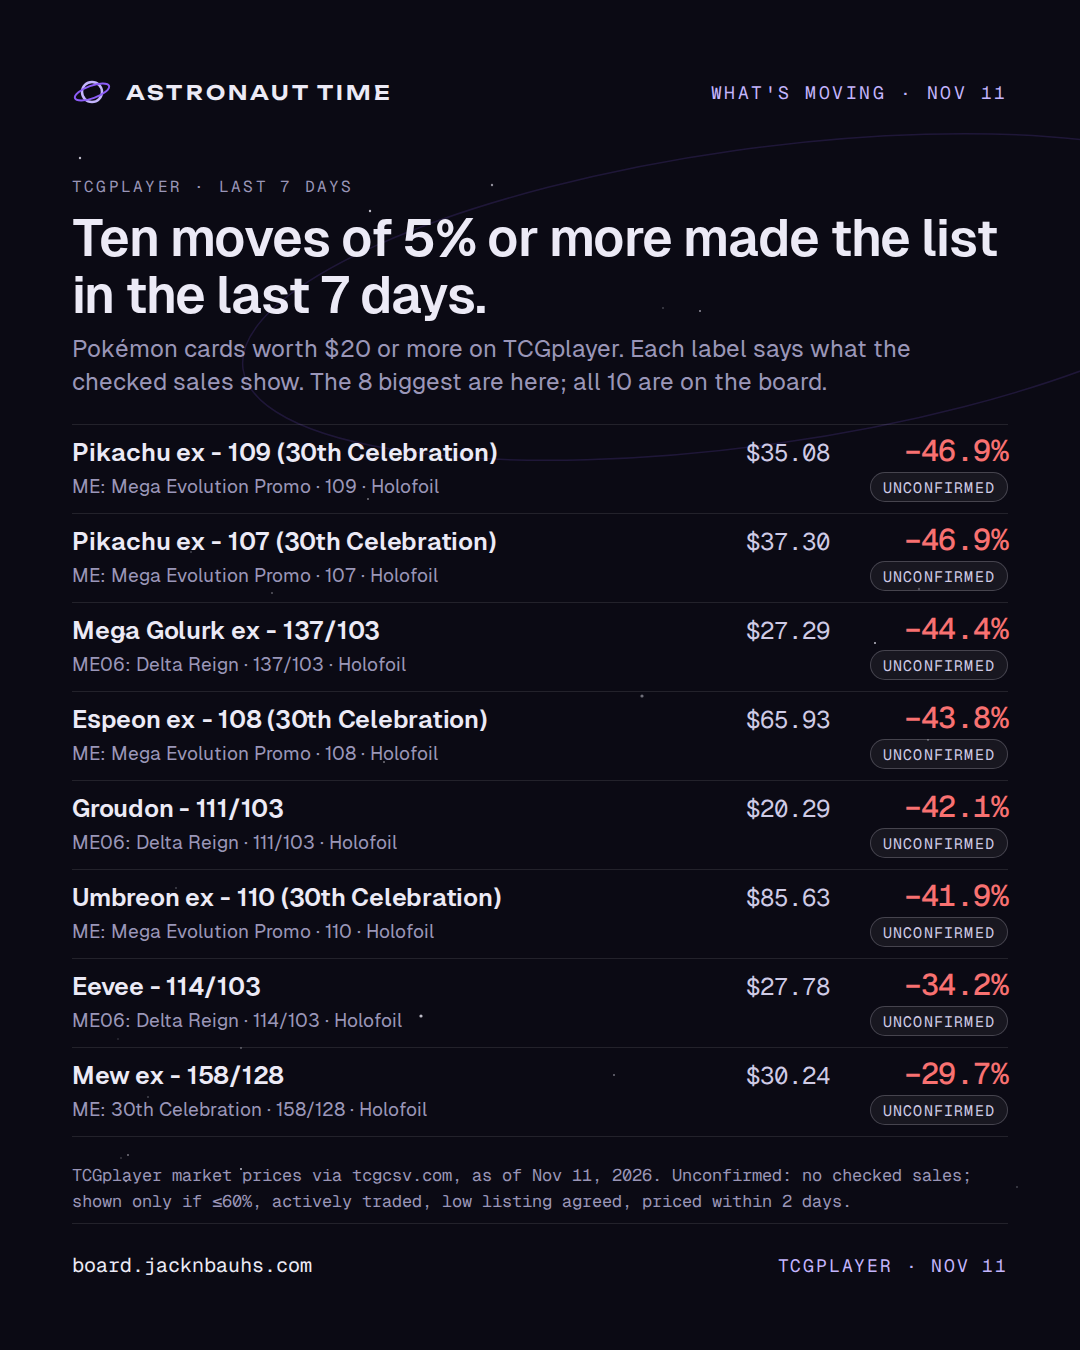
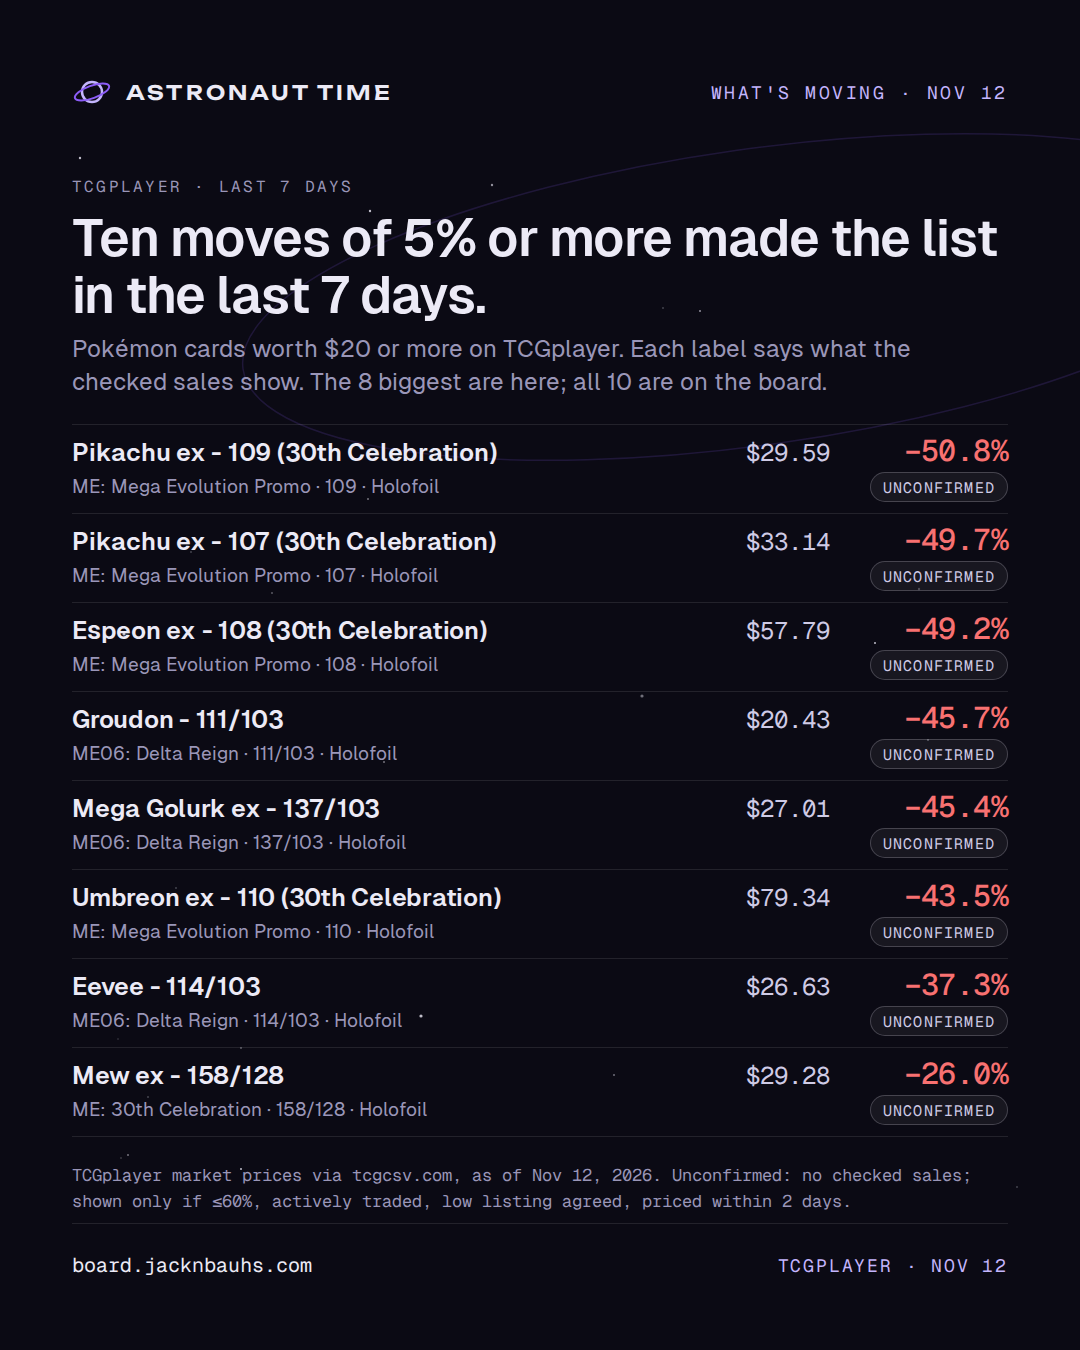
Share kit: render 2026-11-13

diff --git a/card.html b/card.html
@@ -10,14 +10,14 @@
 <meta property="og:url" content="https://board.jacknbauhs.com/card.html">
 <meta property="og:type" content="website">
 <meta property="og:site_name" content="Astronaut Time">
-<meta property="og:image" content="https://board.jacknbauhs.com/assets/og.png?v=2026-11-12">
+<meta property="og:image" content="https://board.jacknbauhs.com/assets/og.png?v=2026-11-13">
 <meta property="og:image:width" content="1200">
 <meta property="og:image:height" content="630">
 <meta property="og:image:alt" content="Mission Control by Astronaut Time: the card market, with the fake sales taken out.">
 <meta name="twitter:card" content="summary_large_image">
 <meta name="twitter:title" content="Card · Mission Control · Astronaut Time">
 <meta name="twitter:description" content="The card market, with the fake sales taken out.">
-<meta name="twitter:image" content="https://board.jacknbauhs.com/assets/og.png?v=2026-11-12">
+<meta name="twitter:image" content="https://board.jacknbauhs.com/assets/og.png?v=2026-11-13">
 <meta name="theme-color" content="#0B0A14">
 <link rel="icon" href="assets/favicon.svg" type="image/svg+xml">
 <link rel="preconnect" href="https://fonts.googleapis.com">

diff --git a/404.html b/404.html
@@ -10,14 +10,14 @@
 <meta property="og:url" content="https://board.jacknbauhs.com/">
 <meta property="og:type" content="website">
 <meta property="og:site_name" content="Astronaut Time">
-<meta property="og:image" content="https://board.jacknbauhs.com/assets/og.png?v=2026-11-12">
+<meta property="og:image" content="https://board.jacknbauhs.com/assets/og.png?v=2026-11-13">
 <meta property="og:image:width" content="1200">
 <meta property="og:image:height" content="630">
 <meta property="og:image:alt" content="Mission Control by Astronaut Time: the card market, with the fake sales taken out.">
 <meta name="twitter:card" content="summary_large_image">
 <meta name="twitter:title" content="Mission Control · Astronaut Time">
 <meta name="twitter:description" content="The card market, with the fake sales taken out.">
-<meta name="twitter:image" content="https://board.jacknbauhs.com/assets/og.png?v=2026-11-12">
+<meta name="twitter:image" content="https://board.jacknbauhs.com/assets/og.png?v=2026-11-13">
 <meta name="theme-color" content="#0B0A14">
 <link rel="icon" href="/assets/favicon.svg" type="image/svg+xml">
 <link rel="preconnect" href="https://fonts.googleapis.com">

diff --git a/index.html b/index.html
@@ -10,14 +10,14 @@
 <meta property="og:url" content="https://board.jacknbauhs.com/">
 <meta property="og:type" content="website">
 <meta property="og:site_name" content="Astronaut Time">
-<meta property="og:image" content="https://board.jacknbauhs.com/assets/og.png?v=2026-11-12">
+<meta property="og:image" content="https://board.jacknbauhs.com/assets/og.png?v=2026-11-13">
 <meta property="og:image:width" content="1200">
 <meta property="og:image:height" content="630">
 <meta property="og:image:alt" content="Mission Control by Astronaut Time: the card market, with the fake sales taken out.">
 <meta name="twitter:card" content="summary_large_image">
 <meta name="twitter:title" content="Mission Control · Astronaut Time">
 <meta name="twitter:description" content="The card market, with the fake sales taken out.">
-<meta name="twitter:image" content="https://board.jacknbauhs.com/assets/og.png?v=2026-11-12">
+<meta name="twitter:image" content="https://board.jacknbauhs.com/assets/og.png?v=2026-11-13">
 <meta name="theme-color" content="#0B0A14">
 <link rel="icon" href="assets/favicon.svg" type="image/svg+xml">
 <link rel="preconnect" href="https://fonts.googleapis.com">

diff --git a/share/out/captions.md b/share/out/captions.md
@@ -1,10 +1,10 @@
-# Captions, board data of 2026-11-12
+# Captions, board data of 2026-11-13
 
 One block per image. Caption first, alt text second. Plain facts, the source and the board link; nothing here is a buy.
 
 ## Before you post
 
-- ✅ Prices are from Nov 11, 2026.
+- ✅ Prices are from Nov 12, 2026.
 - ⚠ All 10 on the 7-day list are unconfirmed: no checked sale behind any. Keep "unconfirmed" in the post and call them price moves, not sales.
 - ⚠ All 10 on the since-yesterday list are unconfirmed: no checked sale behind any. Keep "unconfirmed" in the post and call them price moves, not sales.
 
@@ -46,6 +46,6 @@ Alt: Three calls on the record. Number 001: The 30th Celebration Booster Bundle'
 
 ## moving-2026-W46.png
 
-What's moving on TCGplayer, as of Nov 11, 2026. Ten moves of 5% or more made the list in the last 7 days. Pikachu ex - 109 (30th Celebration) (ME: Mega Evolution Promo · 109 · Holofoil): $35.08, −46.9%, unconfirmed. Pikachu ex - 107 (30th Celebration) (ME: Mega Evolution Promo · 107 · Holofoil): $37.30, −46.9%, unconfirmed. Mega Golurk ex - 137/103 (ME06: Delta Reign · 137/103 · Holofoil): $27.29, −44.4%, unconfirmed. Espeon ex - 108 (30th Celebration) (ME: Mega Evolution Promo · 108 · Holofoil): $65.93, −43.8%, unconfirmed. Groudon - 111/103 (ME06: Delta Reign · 111/103 · Holofoil): $20.29, −42.1%, unconfirmed. Umbreon ex - 110 (30th Celebration) (ME: Mega Evolution Promo · 110 · Holofoil): $85.63, −41.9%, unconfirmed. Eevee - 114/103 (ME06: Delta Reign · 114/103 · Holofoil): $27.78, −34.2%, unconfirmed. Mew ex - 158/128 (ME: 30th Celebration · 158/128 · Holofoil): $30.24, −29.7%, unconfirmed. Unconfirmed: no checked sales; shown only if ≤60%, actively traded, low listing agreed, priced within 2 days. Source: TCGplayer market prices via tcgcsv.com, as of Nov 11, 2026. board.jacknbauhs.com
+What's moving on TCGplayer, as of Nov 12, 2026. Ten moves of 5% or more made the list in the last 7 days. Pikachu ex - 109 (30th Celebration) (ME: Mega Evolution Promo · 109 · Holofoil): $29.59, −50.8%, unconfirmed. Pikachu ex - 107 (30th Celebration) (ME: Mega Evolution Promo · 107 · Holofoil): $33.14, −49.7%, unconfirmed. Espeon ex - 108 (30th Celebration) (ME: Mega Evolution Promo · 108 · Holofoil): $57.79, −49.2%, unconfirmed. Groudon - 111/103 (ME06: Delta Reign · 111/103 · Holofoil): $20.43, −45.7%, unconfirmed. Mega Golurk ex - 137/103 (ME06: Delta Reign · 137/103 · Holofoil): $27.01, −45.4%, unconfirmed. Umbreon ex - 110 (30th Celebration) (ME: Mega Evolution Promo · 110 · Holofoil): $79.34, −43.5%, unconfirmed. Eevee - 114/103 (ME06: Delta Reign · 114/103 · Holofoil): $26.63, −37.3%, unconfirmed. Mew ex - 158/128 (ME: 30th Celebration · 158/128 · Holofoil): $29.28, −26.0%, unconfirmed. Unconfirmed: no checked sales; shown only if ≤60%, actively traded, low listing agreed, priced within 2 days. Source: TCGplayer market prices via tcgcsv.com, as of Nov 12, 2026. board.jacknbauhs.com
 
 Alt: What's moving: the 8 biggest of the 10 TCGplayer moves on the list in the last 7 days, each with its market price, its change and the label for what checked sales show.
